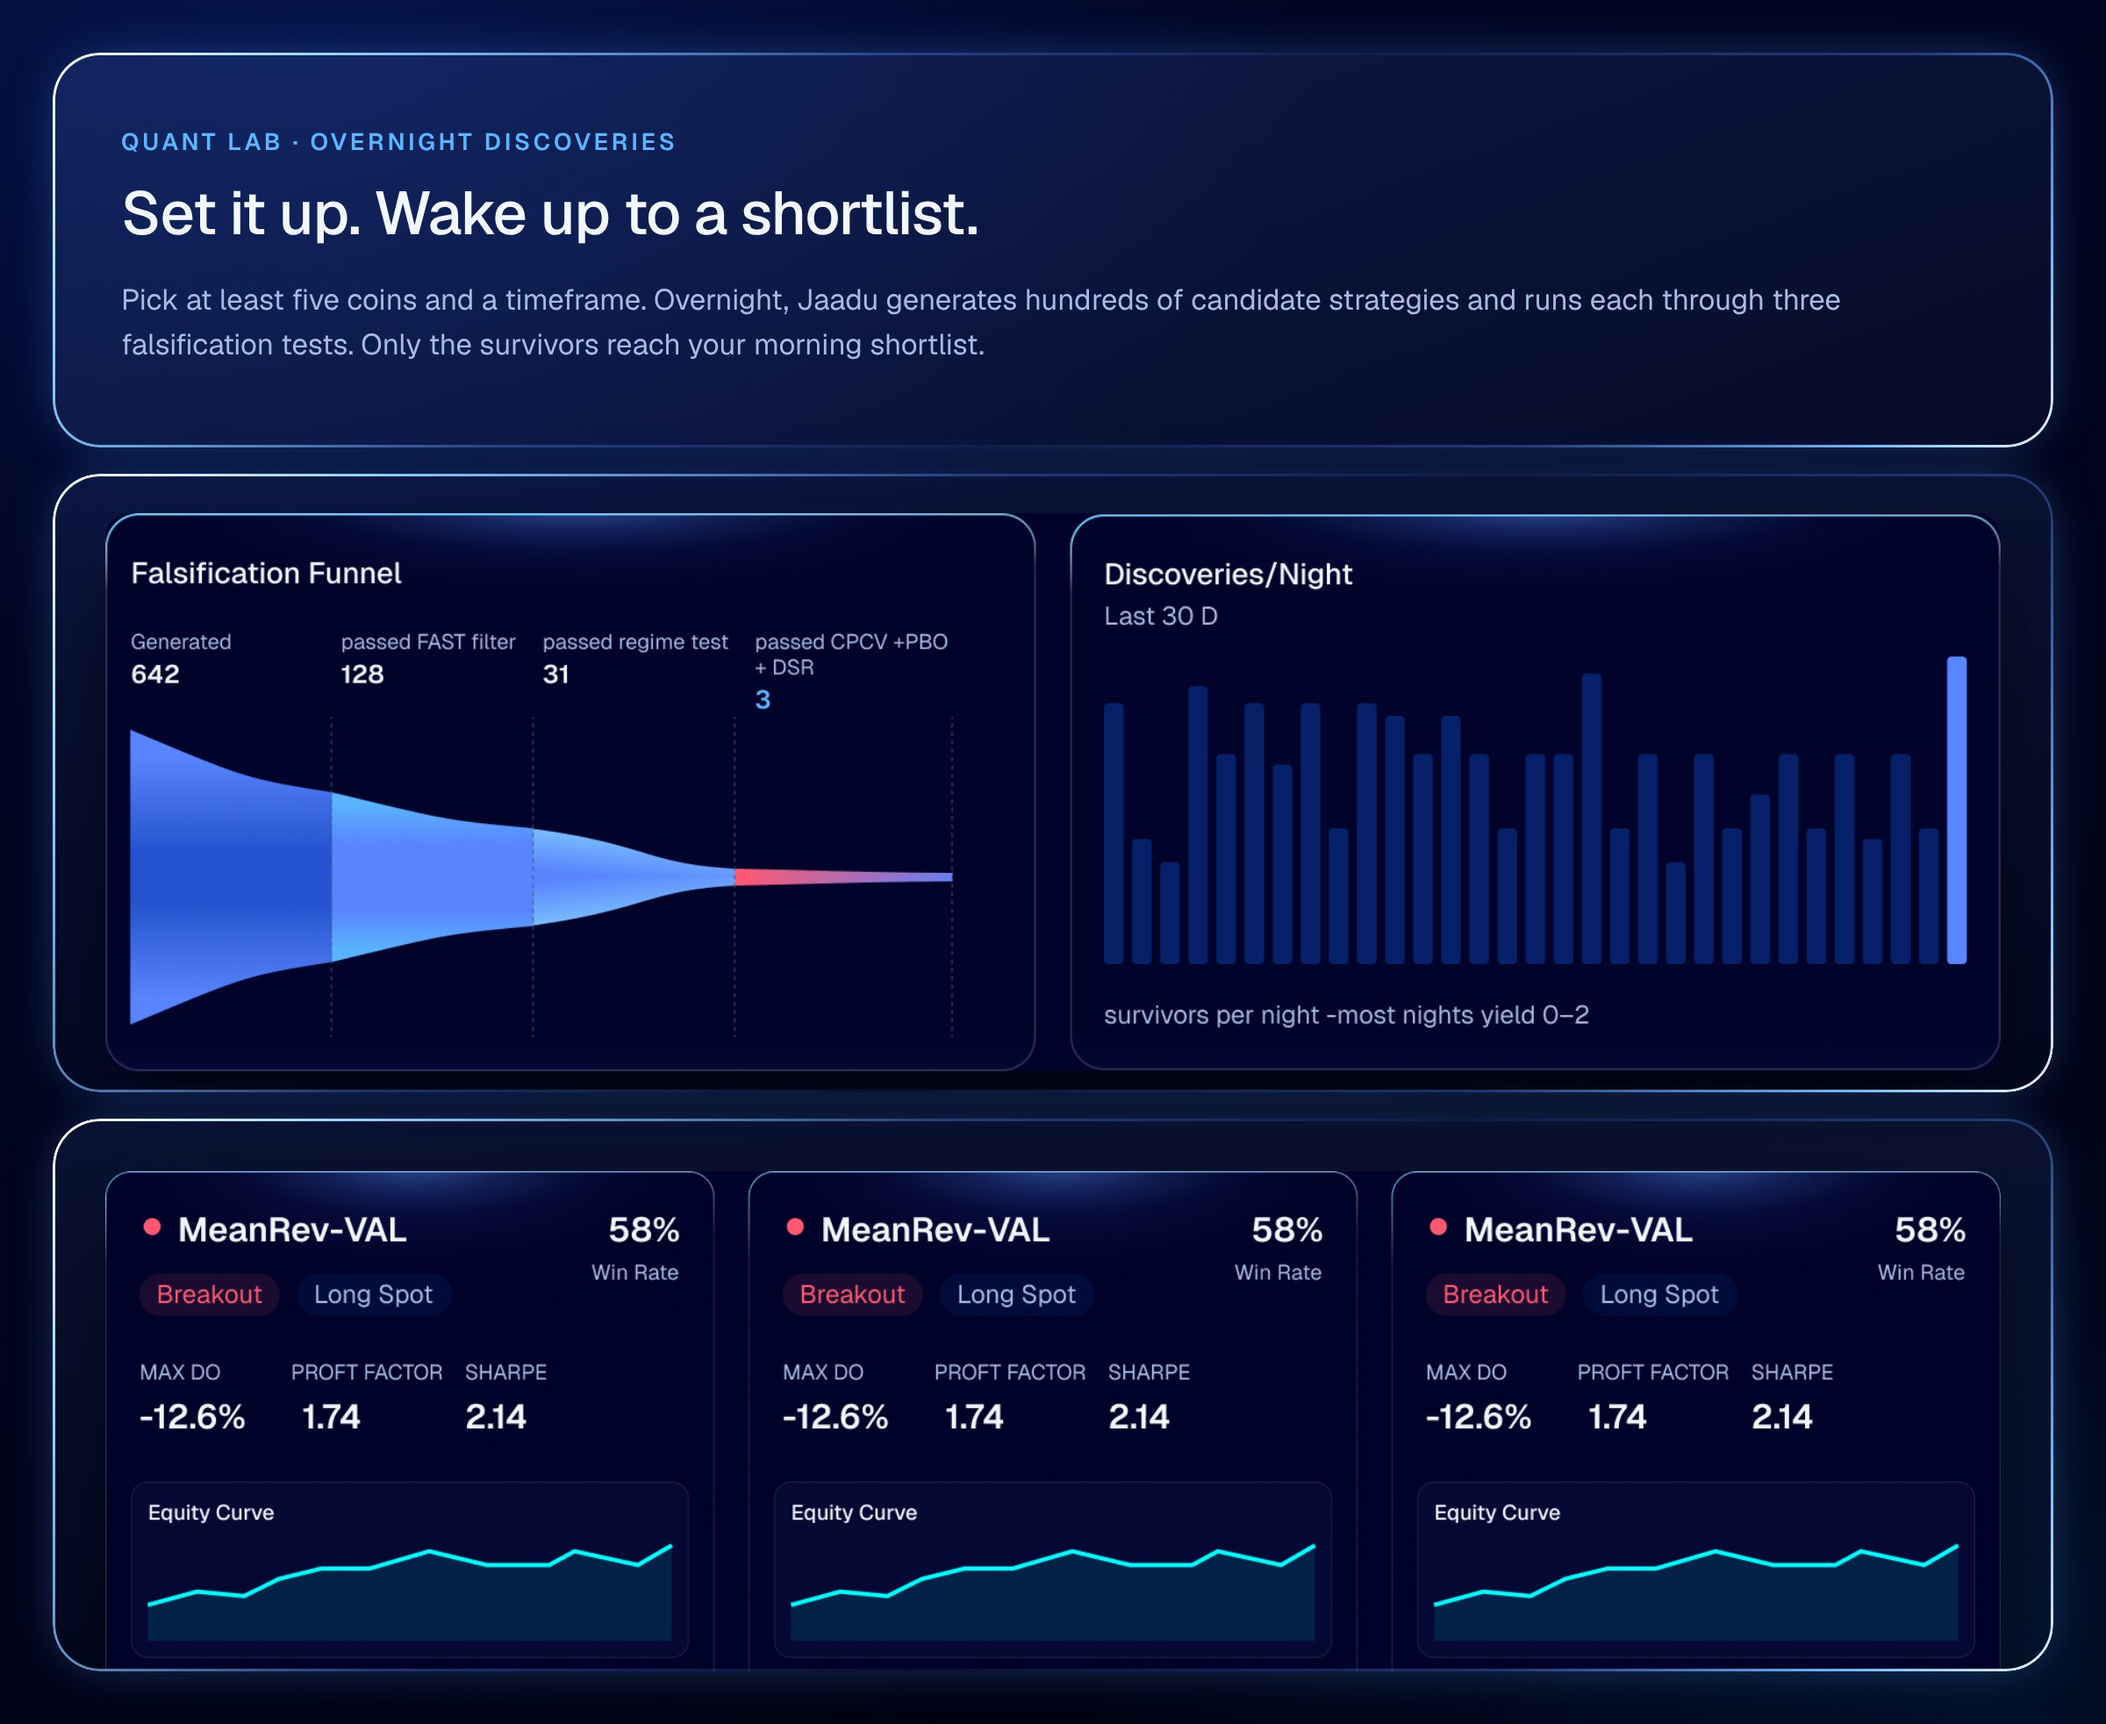
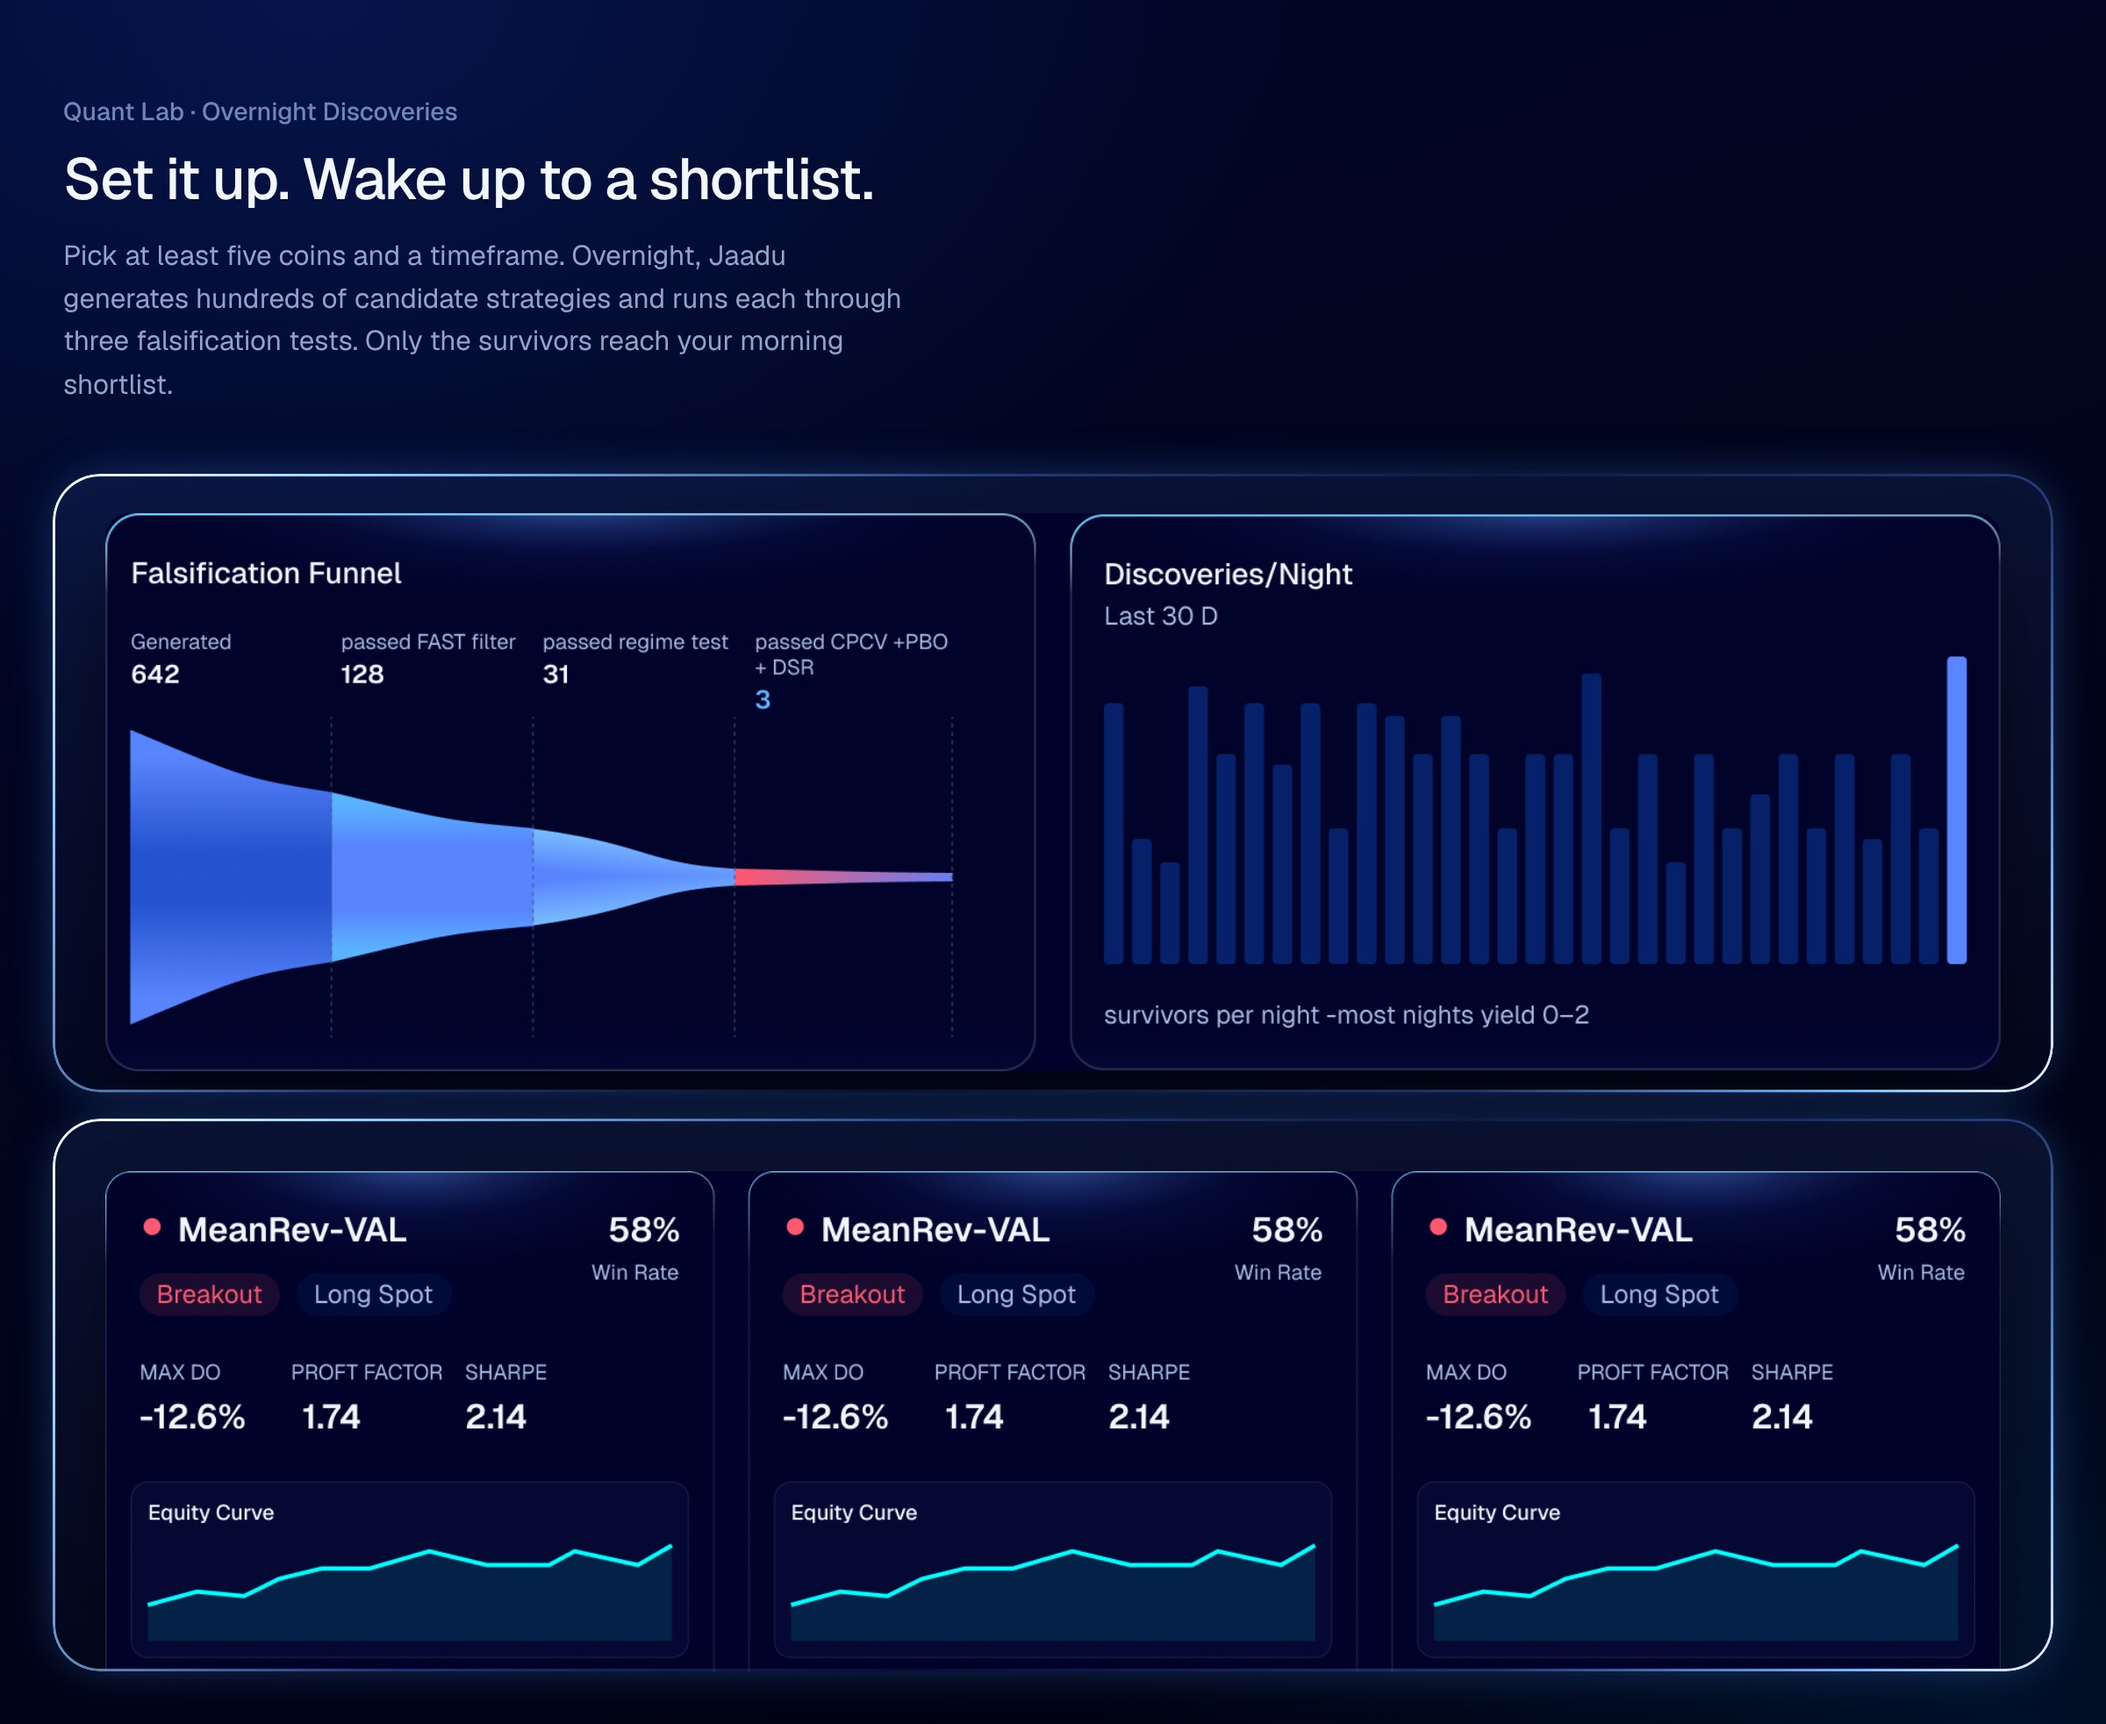
Jaadu: plain typographic explanations instead of boxed cards
Claude-Session: https://claude.ai/code/session_01L48ecgvWMXiCwrAdC3aGTG

diff --git a/scripts/mockups/jaadu/features.html b/scripts/mockups/jaadu/features.html
@@ -8,10 +8,10 @@ body{margin:0;background:#fff}
 .rim::after{content:'';position:absolute;inset:0;border-radius:inherit;padding:2px;pointer-events:none;z-index:5;background:linear-gradient(135deg,#ffffff 0%,#8fd3ff 12%,rgba(90,140,255,.35) 35%,rgba(90,140,255,.08) 55%,rgba(90,140,255,.35) 78%,#6fb8ff 92%,#e6f4ff 100%);-webkit-mask:linear-gradient(#000 0 0) content-box,linear-gradient(#000 0 0);-webkit-mask-composite:xor;mask-composite:exclude}
 .tl{position:absolute;overflow:hidden;border-radius:36px;background:linear-gradient(180deg,rgba(90,140,255,.10),rgba(90,140,255,.03));box-shadow:0 0 40px -10px rgba(80,150,255,.45)}
 .tl img{position:absolute;display:block;border-radius:18px;box-shadow:0 30px 60px -20px rgba(0,0,0,.8)}
-.ex{position:absolute;border-radius:36px;padding:56px 52px;box-sizing:border-box;background:linear-gradient(160deg,rgba(90,140,255,.16),rgba(90,140,255,.05));box-shadow:0 0 40px -10px rgba(80,150,255,.45);color:#F1F6FF}
-.ex .lb{font:600 18px Geist;letter-spacing:.14em;color:#5CB5FF;text-transform:uppercase}
-.ex h3{font:500 46px/1.1 Geist;margin:18px 0 0;letter-spacing:-.02em}
-.ex p{font:400 22px/1.55 Geist;color:#A7BCE4;margin:22px 0 0}
+.ex{position:absolute;padding:56px 8px;box-sizing:border-box;color:#F1F6FF;display:flex;flex-direction:column;justify-content:center}
+.ex .lb{font:500 19px Geist;color:#6F86B8}
+.ex h3{font:500 44px/1.12 Geist;margin:14px 0 0;letter-spacing:-.025em}
+.ex p{font:400 21px/1.55 Geist;color:#8FA3CC;margin:18px 0 0;max-width:640px}
 .ex ul{margin:26px 0 0;padding:0;list-style:none}
 .ex li{font:400 20px/1.45 Geist;color:#D6E2FA;padding:12px 0 12px 30px;position:relative;border-top:1px solid rgba(150,190,255,.14)}
 .ex li:before{content:'';position:absolute;left:4px;top:22px;width:10px;height:10px;border-radius:50%;background:#5985FF;box-shadow:0 0 10px #5985FF}
@@ -25,7 +25,7 @@ const F='feat/'
 const M=(id,h,inner)=>`<div class="bd" id="${id}" style="height:${h}px">${inner}</div>`
 const tile=(l,t,w,h,inner)=>`<div class="tl rim" style="left:${l}px;top:${t}px;width:${w}px;height:${h}px">${inner}</div>`
 const img=(n,w,l,t,r=18)=>`<img src="${F}${n}.png" style="left:${l}px;top:${t}px;width:${w}px;border-radius:${r}px">`
-const ex=(l,t,w,h,lb,title,body,items=[])=>`<div class="ex rim" style="left:${l}px;top:${t}px;width:${w}px;height:${h}px"><div class="lb">${lb}</div><h3>${title}</h3><p>${body}</p>${items.length?`<ul>${items.map(x=>`<li>${x}</li>`).join('')}</ul>`:''}</div>`
+const ex=(l,t,w,h,lb,title,body,items=[])=>`<div class="ex" style="left:${l}px;top:${t}px;width:${w}px;height:${h}px"><div class="lb">${lb}</div><h3>${title}</h3><p>${body}</p></div>`
 const call=(x1,y1,x2,y2,c,txt,cx,cy)=>`<svg class="dl" width="1600" height="1200"><path d="M${x1} ${y1} L${x2} ${y2}" fill="none" stroke="#9FB4E8" stroke-width="3" stroke-dasharray="3 9" stroke-linecap="round"/><circle cx="${x1}" cy="${y1}" r="9" fill="${c}" stroke="#fff" stroke-width="3"/></svg><div class="chip" style="--c:${c};left:${cx}px;top:${cy}px"><i></i>${txt}</div>`
 const S=[]
 // 1 Footprint, zoomed
